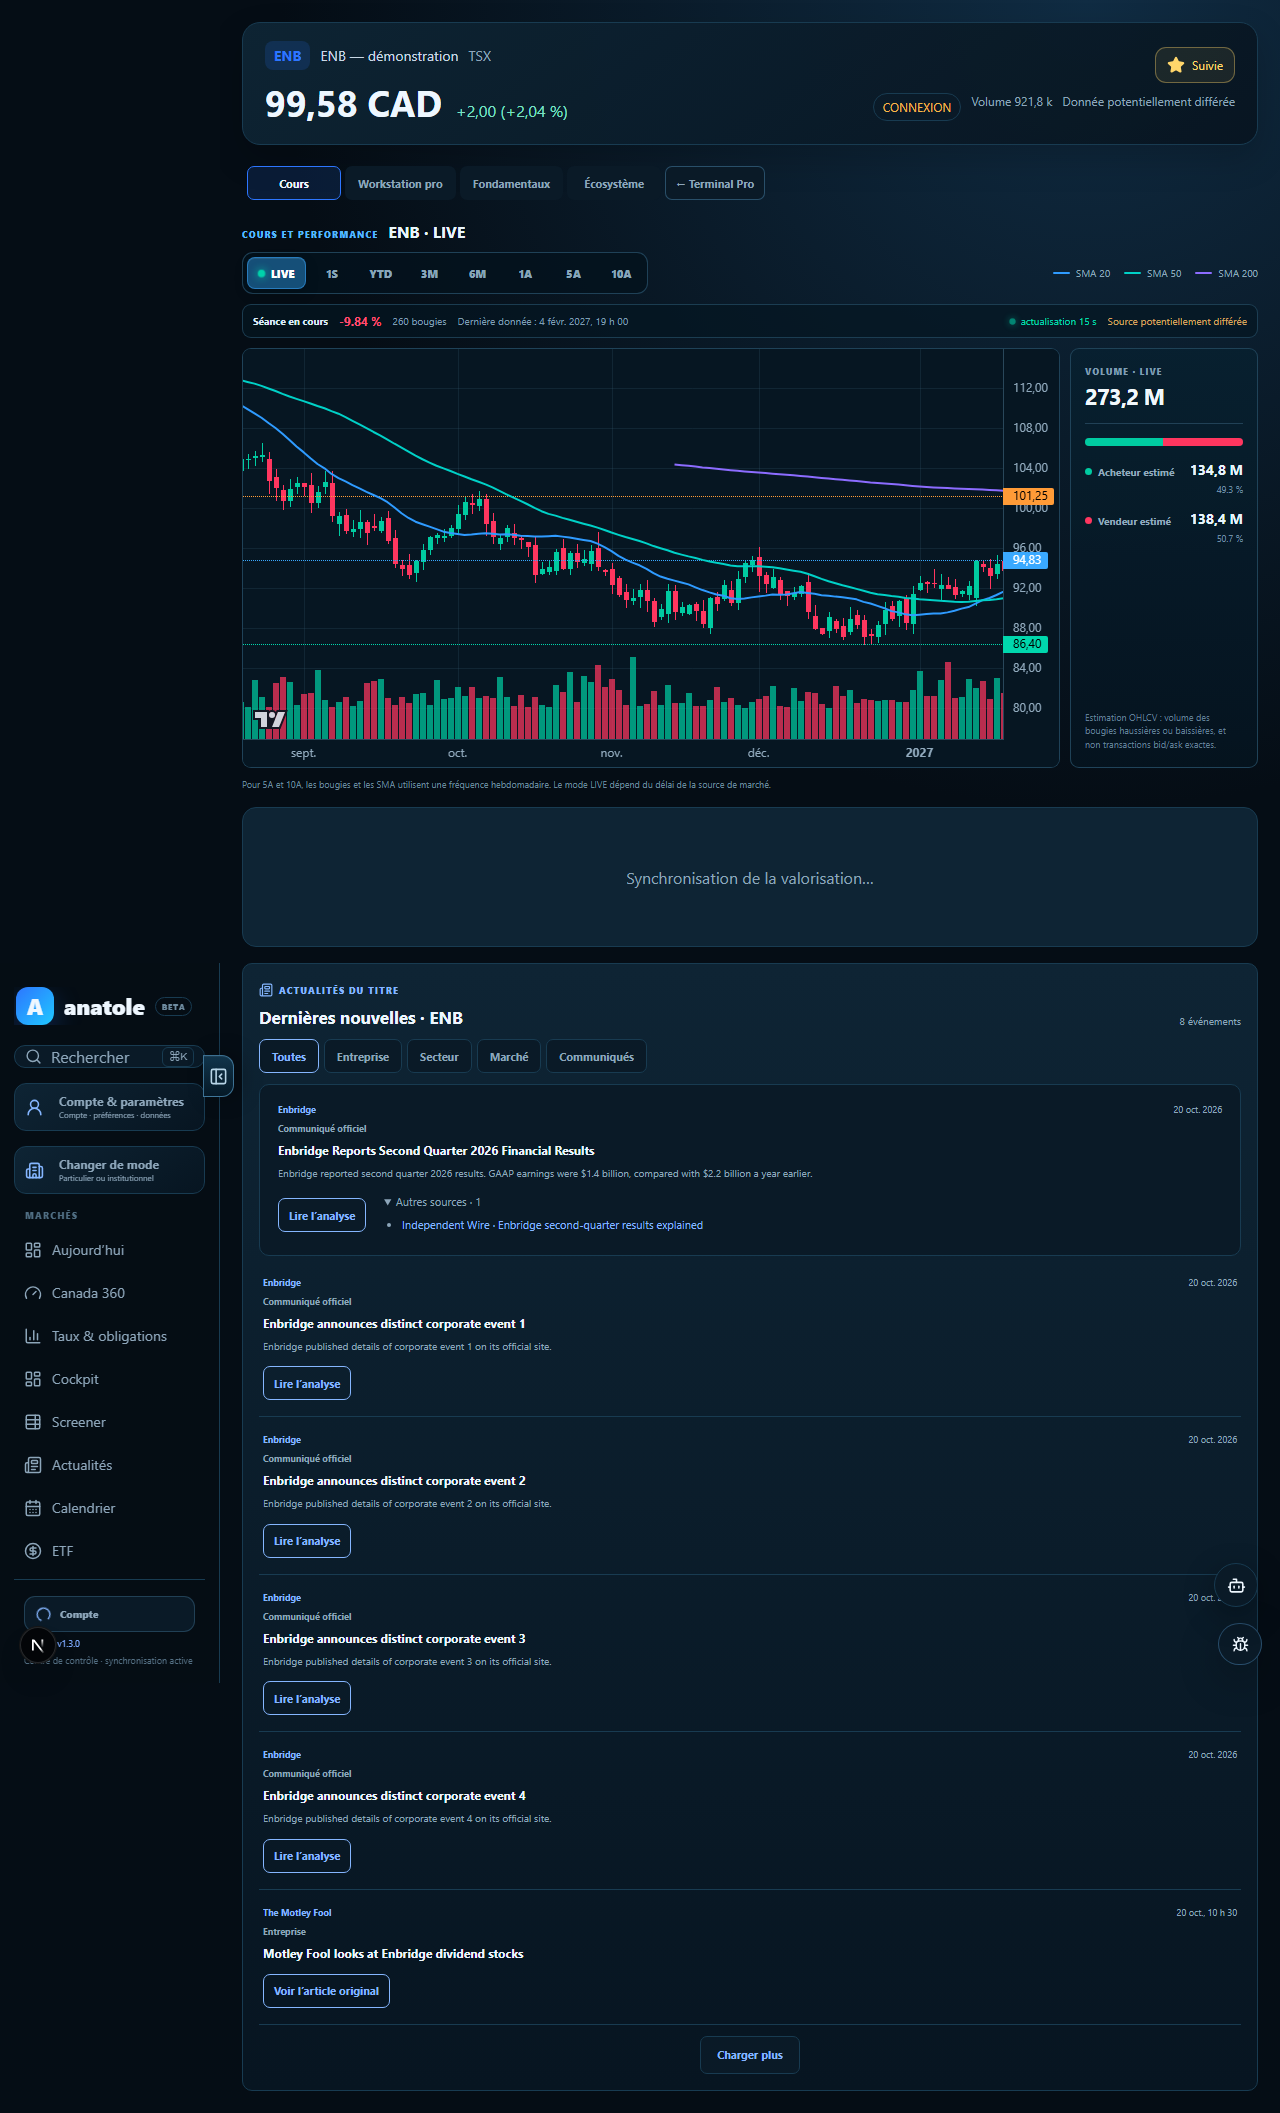
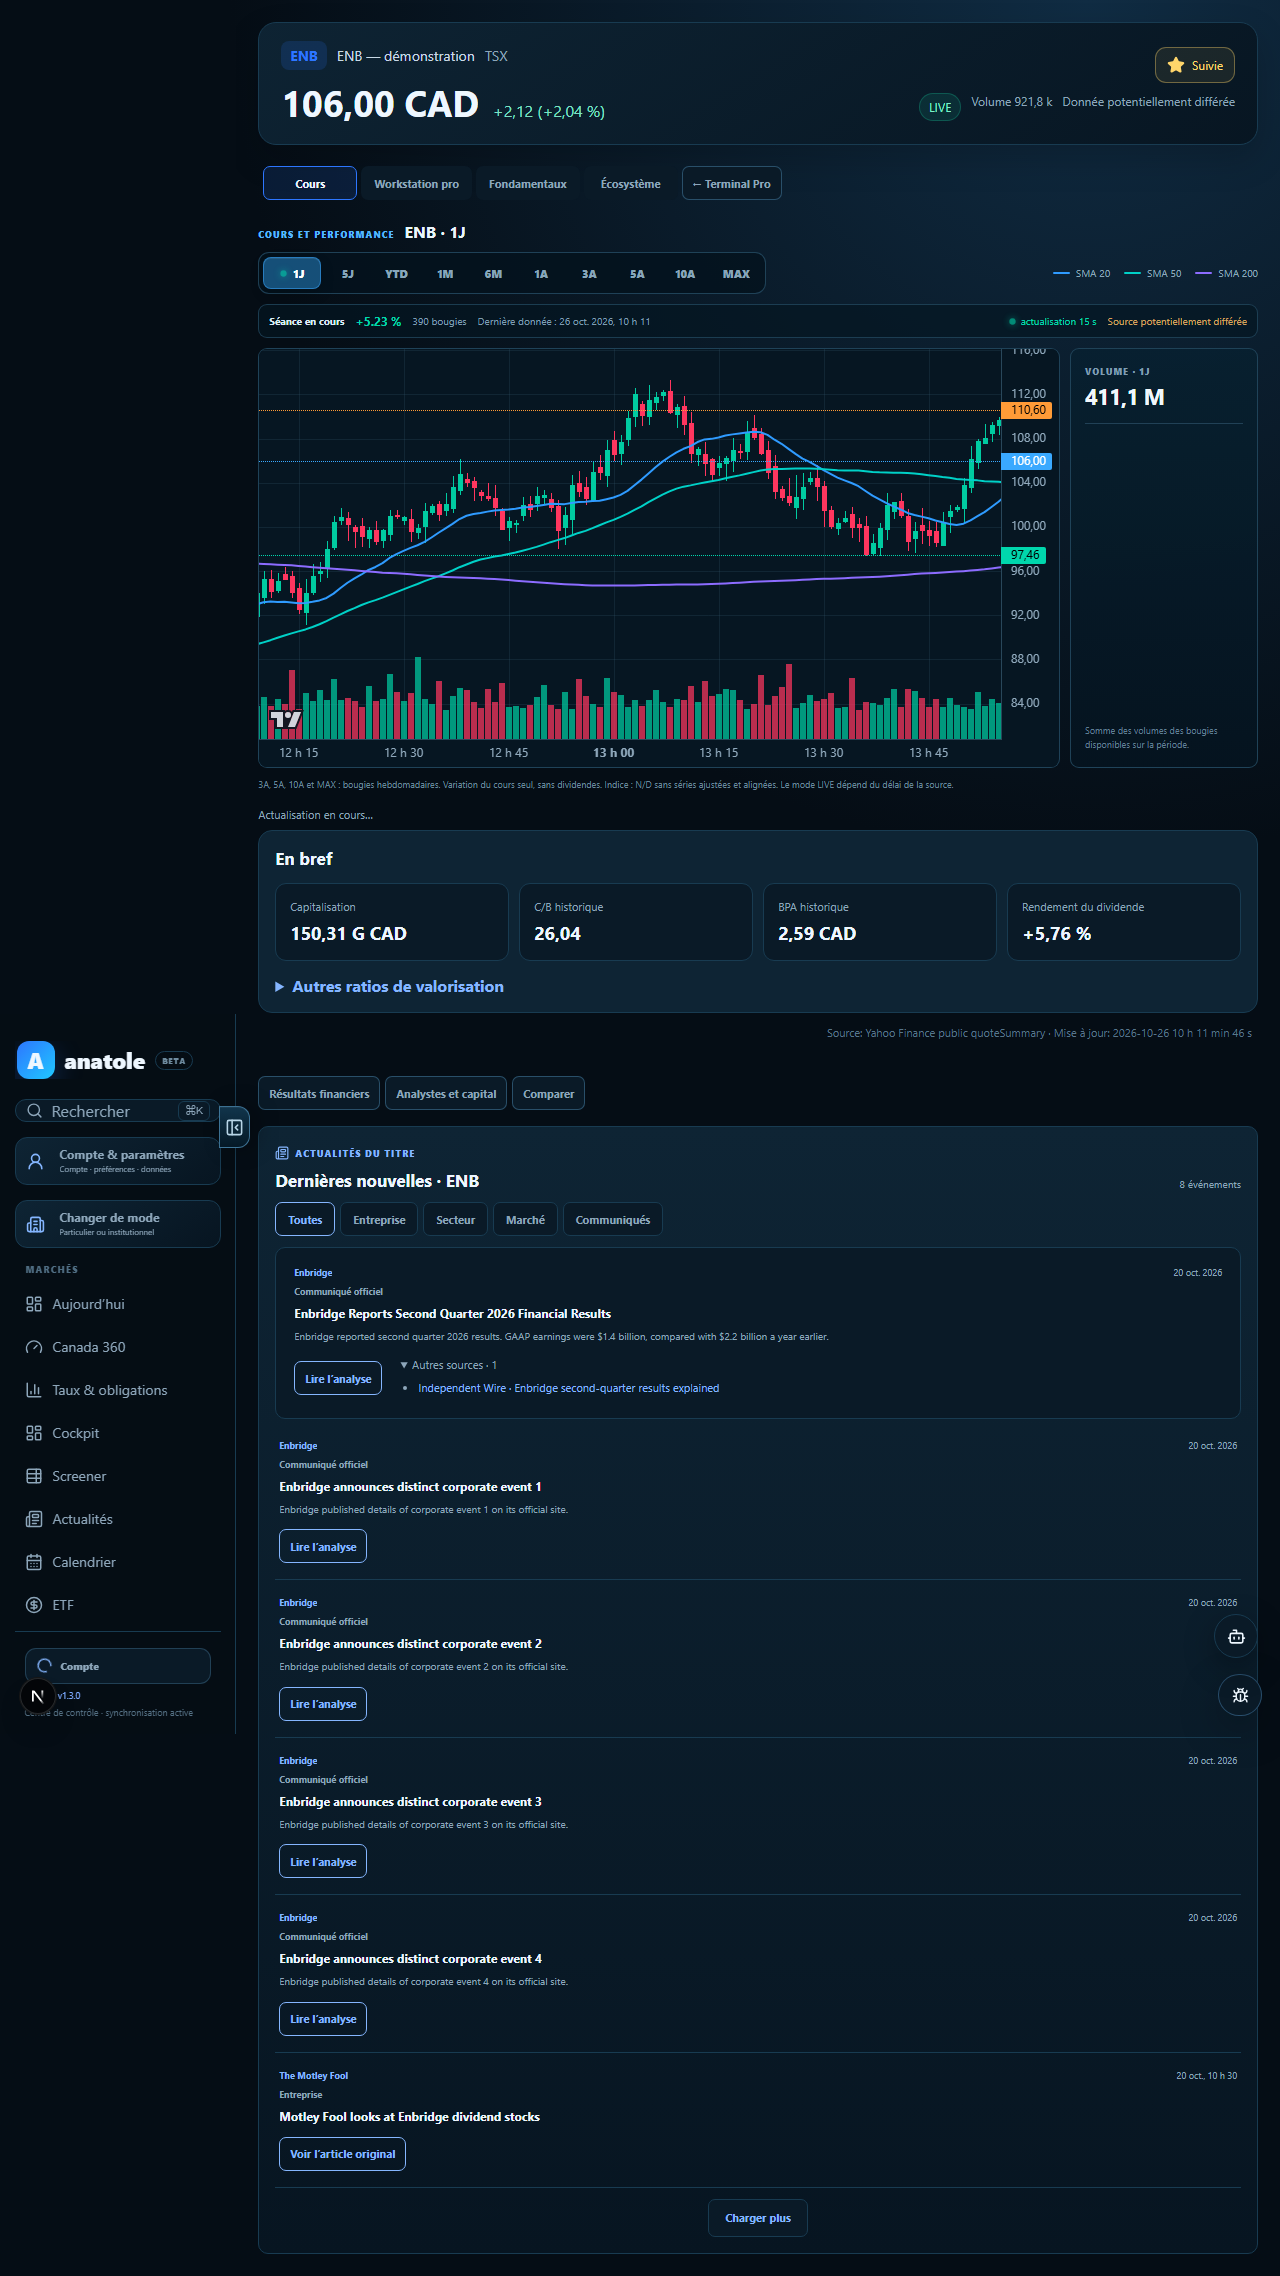
docs: capture Focus Premium and reader visual states

diff --git a/docs/focus-intelligence-2-premium.md b/docs/focus-intelligence-2-premium.md
@@ -10,7 +10,27 @@ Les captures ci-dessous proviennent de la **même fixture Playwright ENB**. Elle
 | --- | --- |
 | ![Fil ENB avant](images/focus-news-coverage-before.png) | ![Fil ENB après](images/focus-news-coverage-after.png) |
 
-La nouvelle vue affiche la date, l’éditeur, le sujet et l’image fournie par l’éditeur lorsqu’elle est disponible. Les angles supplémentaires d’un événement sont repliables. Les filtres et « Charger plus » interrogent la pagination de l’API News Coverage de la PR #169. Cette PR Premium est empilée après Résumé+ (#170) et News × Fundamentals (#171).
+La capture « après » correspond à la pile complète des quatre PR : la synthèse du cours est compacte, le volume observé remplace l’estimation acheteur/vendeur et le fil donne la priorité à une annonce. La nouvelle vue affiche la date, l’éditeur, le sujet et l’image fournie par l’éditeur lorsqu’elle est disponible. Les angles supplémentaires d’un événement sont repliables. Les filtres et « Charger plus » interrogent la pagination de l’API News Coverage de la PR #169. Cette PR Premium est empilée après Résumé+ (#170) et News × Fundamentals (#171).
+
+## Captures de validation visuelle
+
+Les vues ENB et Résumé+ ci-dessous utilisent des fixtures Playwright ; TD provient du parcours local en mode démonstration et affiche explicitement les données partielles renvoyées par les fournisseurs. Ces images documentent l’interface, sans attester la couverture ou la disponibilité des sources en production.
+
+| Focus TD desktop | Focus TD Pixel 7 |
+| --- | --- |
+| ![Synthèse Focus TD desktop](images/focus-premium-td-desktop.png) | ![Synthèse Focus TD Pixel 7](images/focus-premium-td-mobile.png) |
+
+| Résultats financiers TD | Analystes et capital TD |
+| --- | --- |
+| ![Résultats financiers TD](images/focus-premium-td-results.png) | ![Analystes et capital TD](images/focus-premium-td-analysts.png) |
+
+| Fil ENB Pixel 7 | Lecteur ENB desktop | Lecteur ENB Pixel 7 |
+| --- | --- | --- |
+| ![Fil ENB Pixel 7](images/focus-premium-mobile.png) | ![Lecteur ENB desktop](images/focus-premium-reader-desktop.png) | ![Lecteur ENB Pixel 7](images/focus-premium-reader-mobile.png) |
+
+| Résumé rapide | Analyse détaillée |
+| --- | --- |
+| ![Résumé rapide](images/focus-resume-quick.png) | ![Analyse détaillée](images/focus-resume-detailed.png) |
 
 ## Données et limites
 
